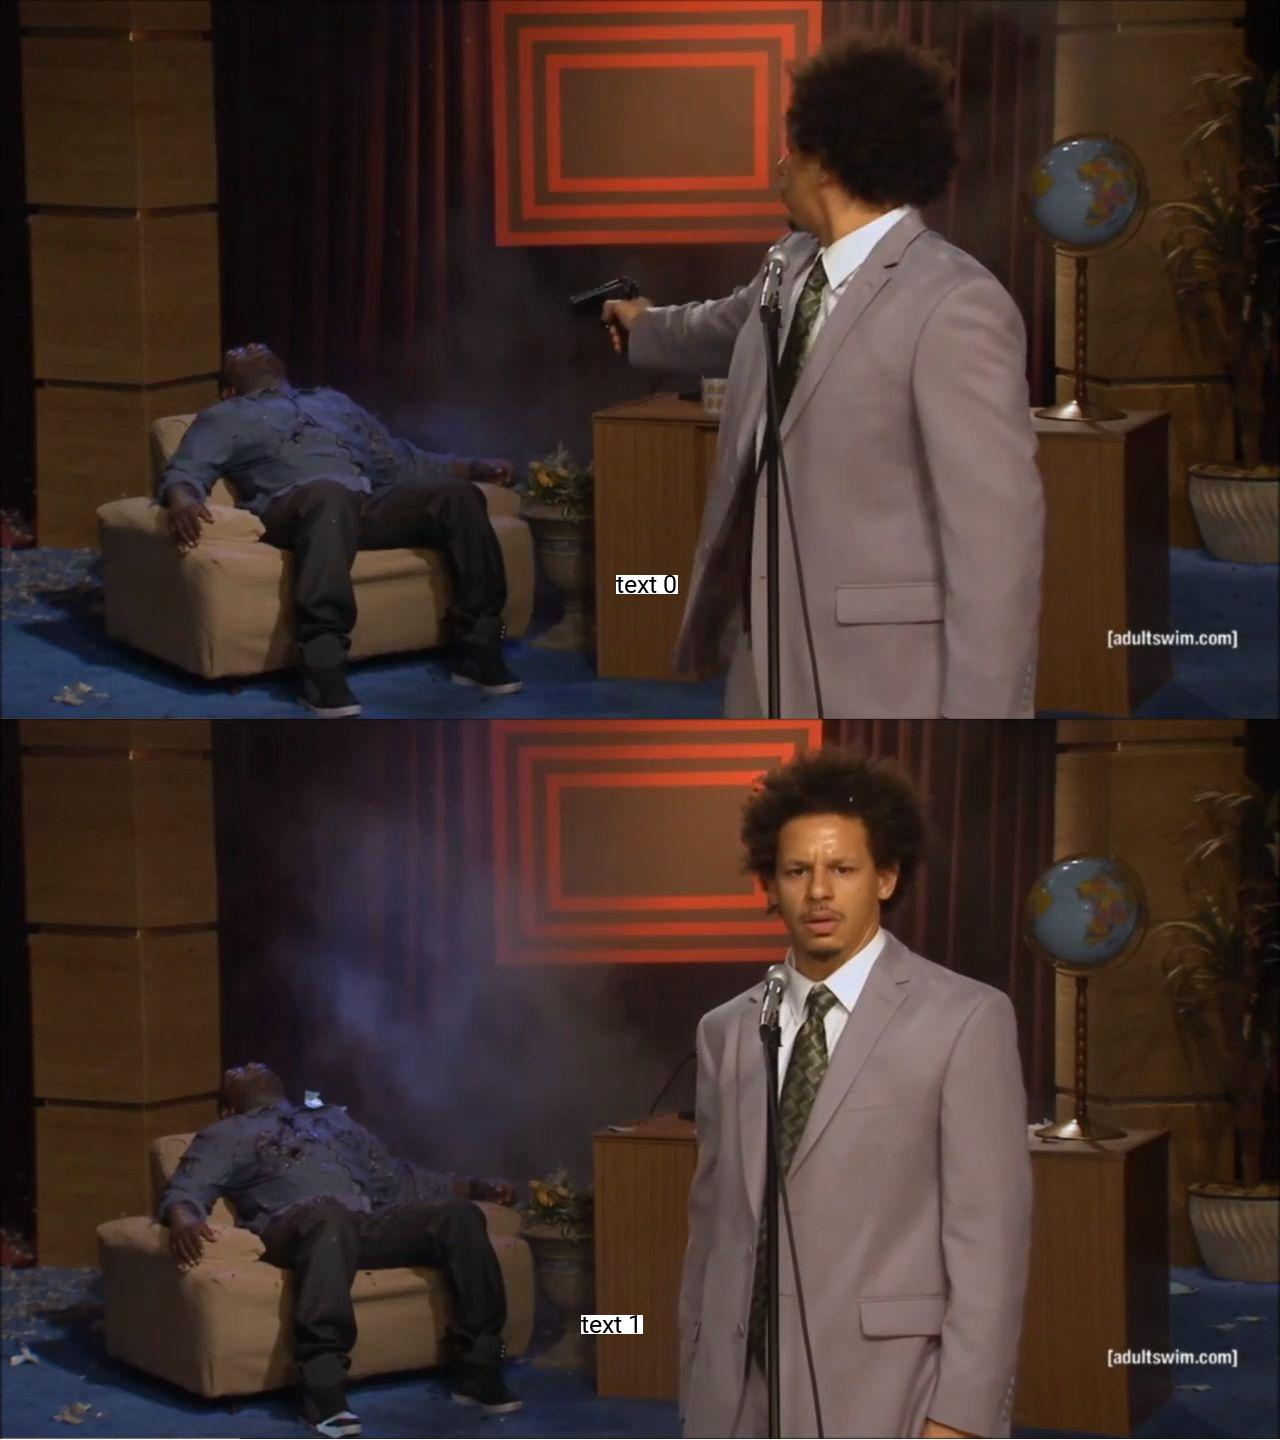
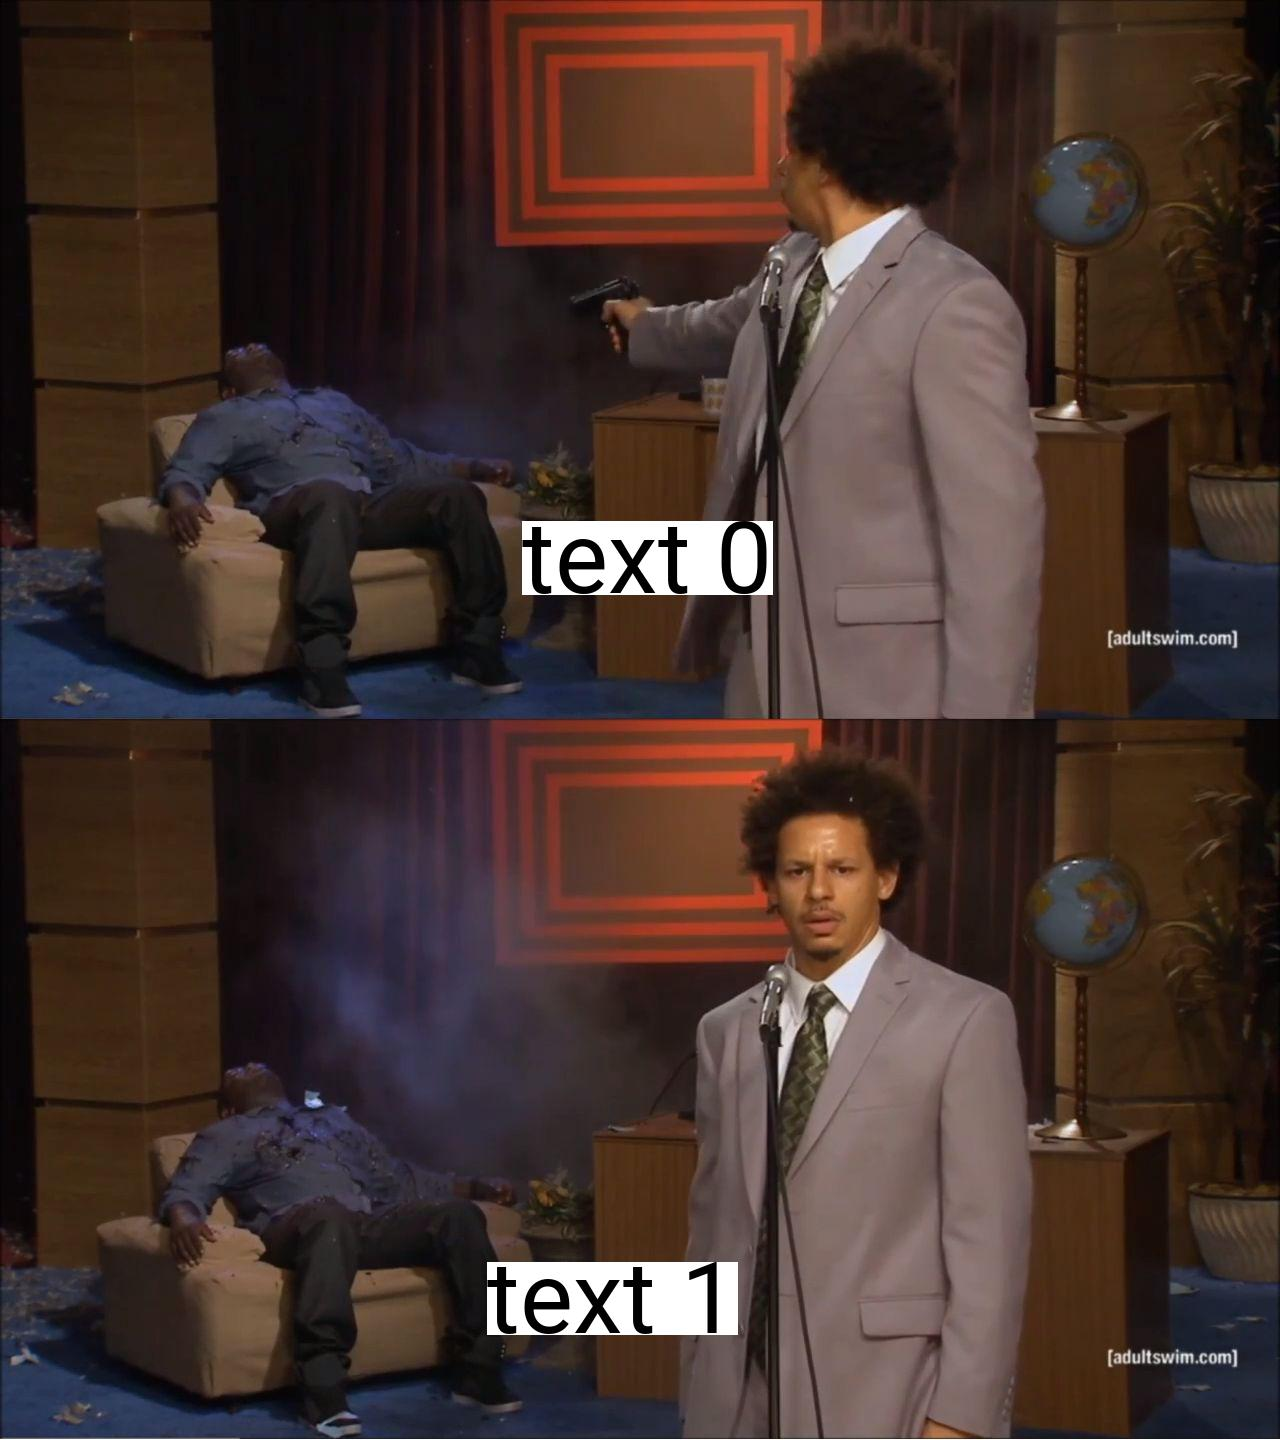
some additional font-style fixes

Changed region(s): [[0.4062, 0.3438, 0.625, 0.4375], [0.375, 0.875, 0.5938, 0.9375]]

diff --git a/create-samples.py b/create-samples.py
@@ -1,6 +1,8 @@
 #!/usr/bin/env python3
 import json
+import subprocess
 from meme import create_meme
+
 
 with open("./memes.json") as f:
     memes = json.load(f)
@@ -10,9 +12,11 @@ with open("./memes.json") as f:
         create_meme(meme["identifier"], texts, f"./samples/sample-{filename}")
 
 with open("./meme-samples.md", "w") as f:
-    f.write("#meme samples\n")
+    f.write("# meme samples\n")
     f.write("samples for the provided memeing options\n")
     f.write("\n\n\n")
     for filename, meme in memes.items():
         f.write(f"## {meme['identifier']}\n")
         f.write(f"![{meme['identifier']} sample](./samples/sample-{filename})\n\n")
+
+subprocess.run("python3 -m markdown meme-samples.md > meme-samples.html", shell=True)

diff --git a/meme-samples.md b/meme-samples.md
@@ -1,4 +1,4 @@
-#meme samples
+# meme samples
 samples for the provided memeing options
 
 
